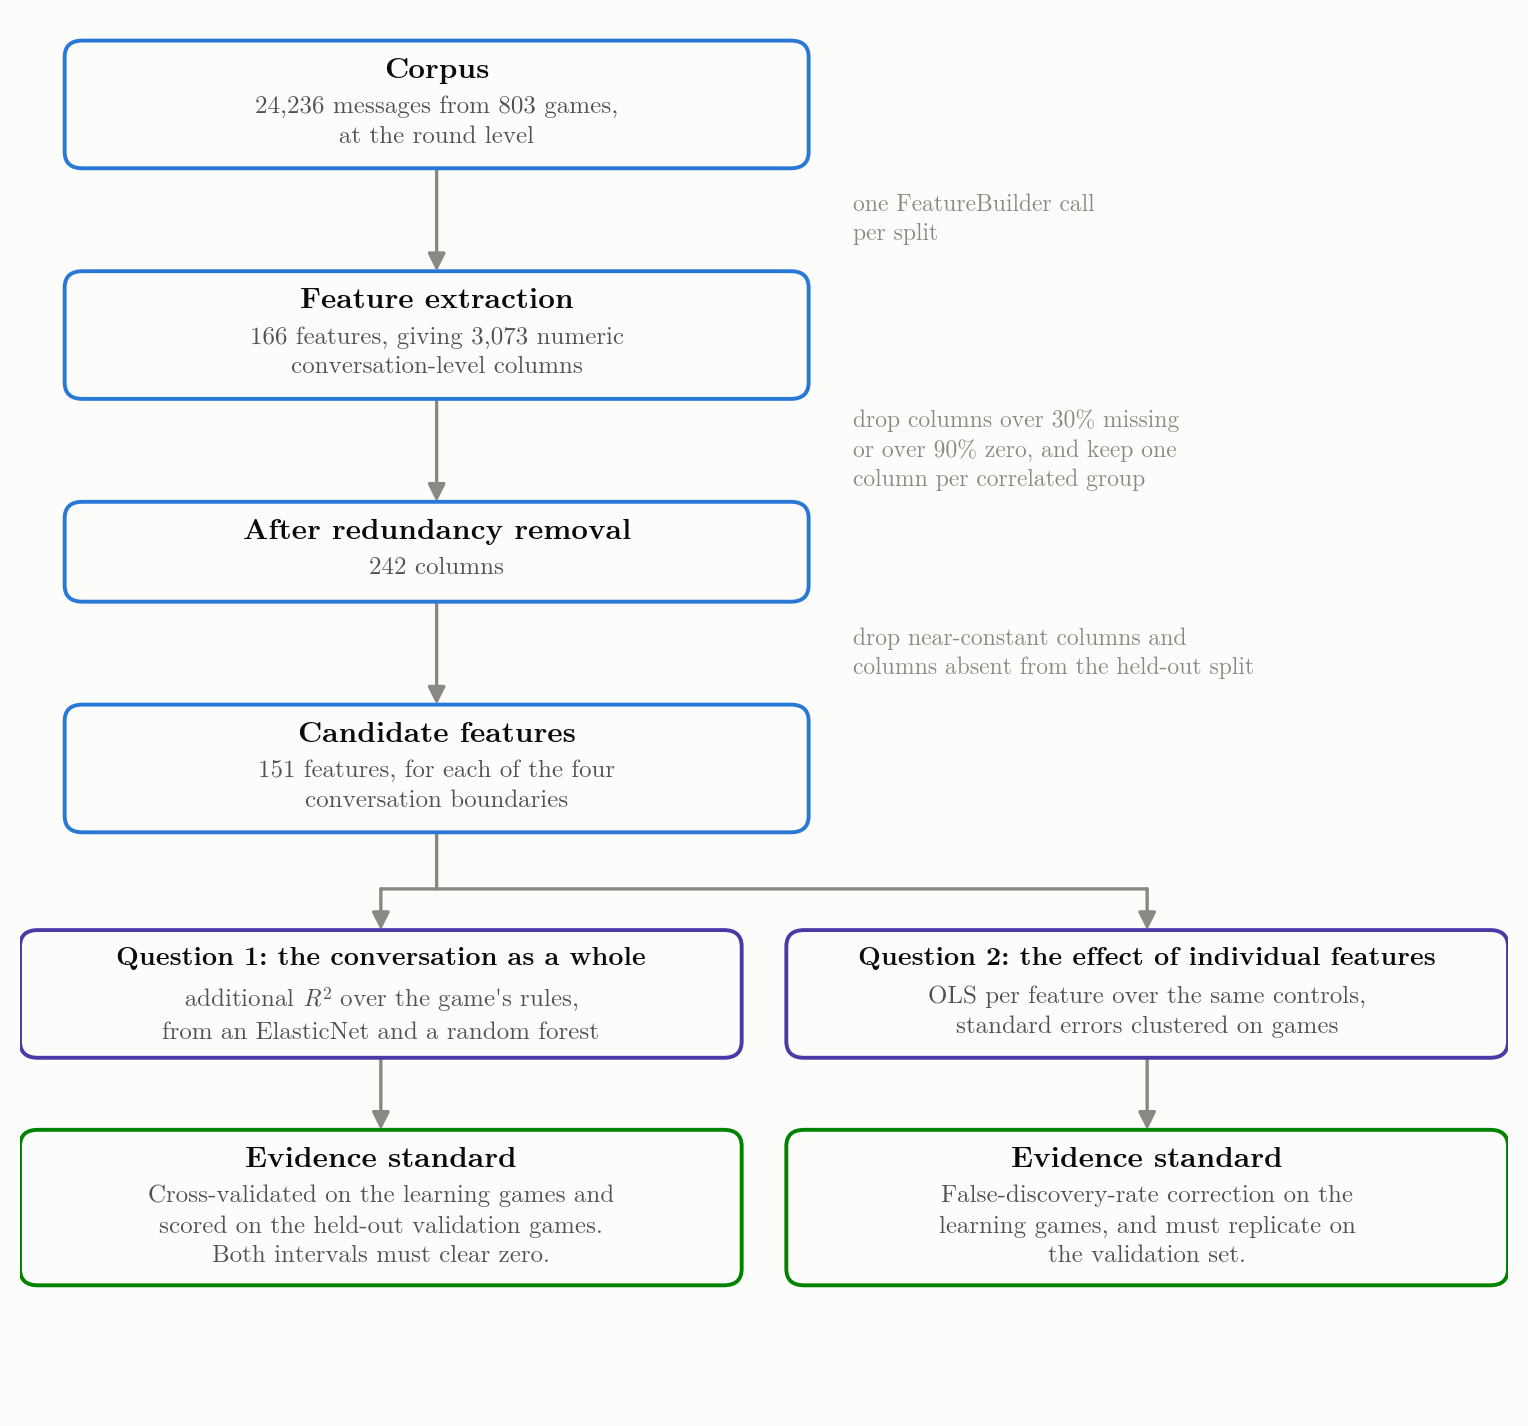
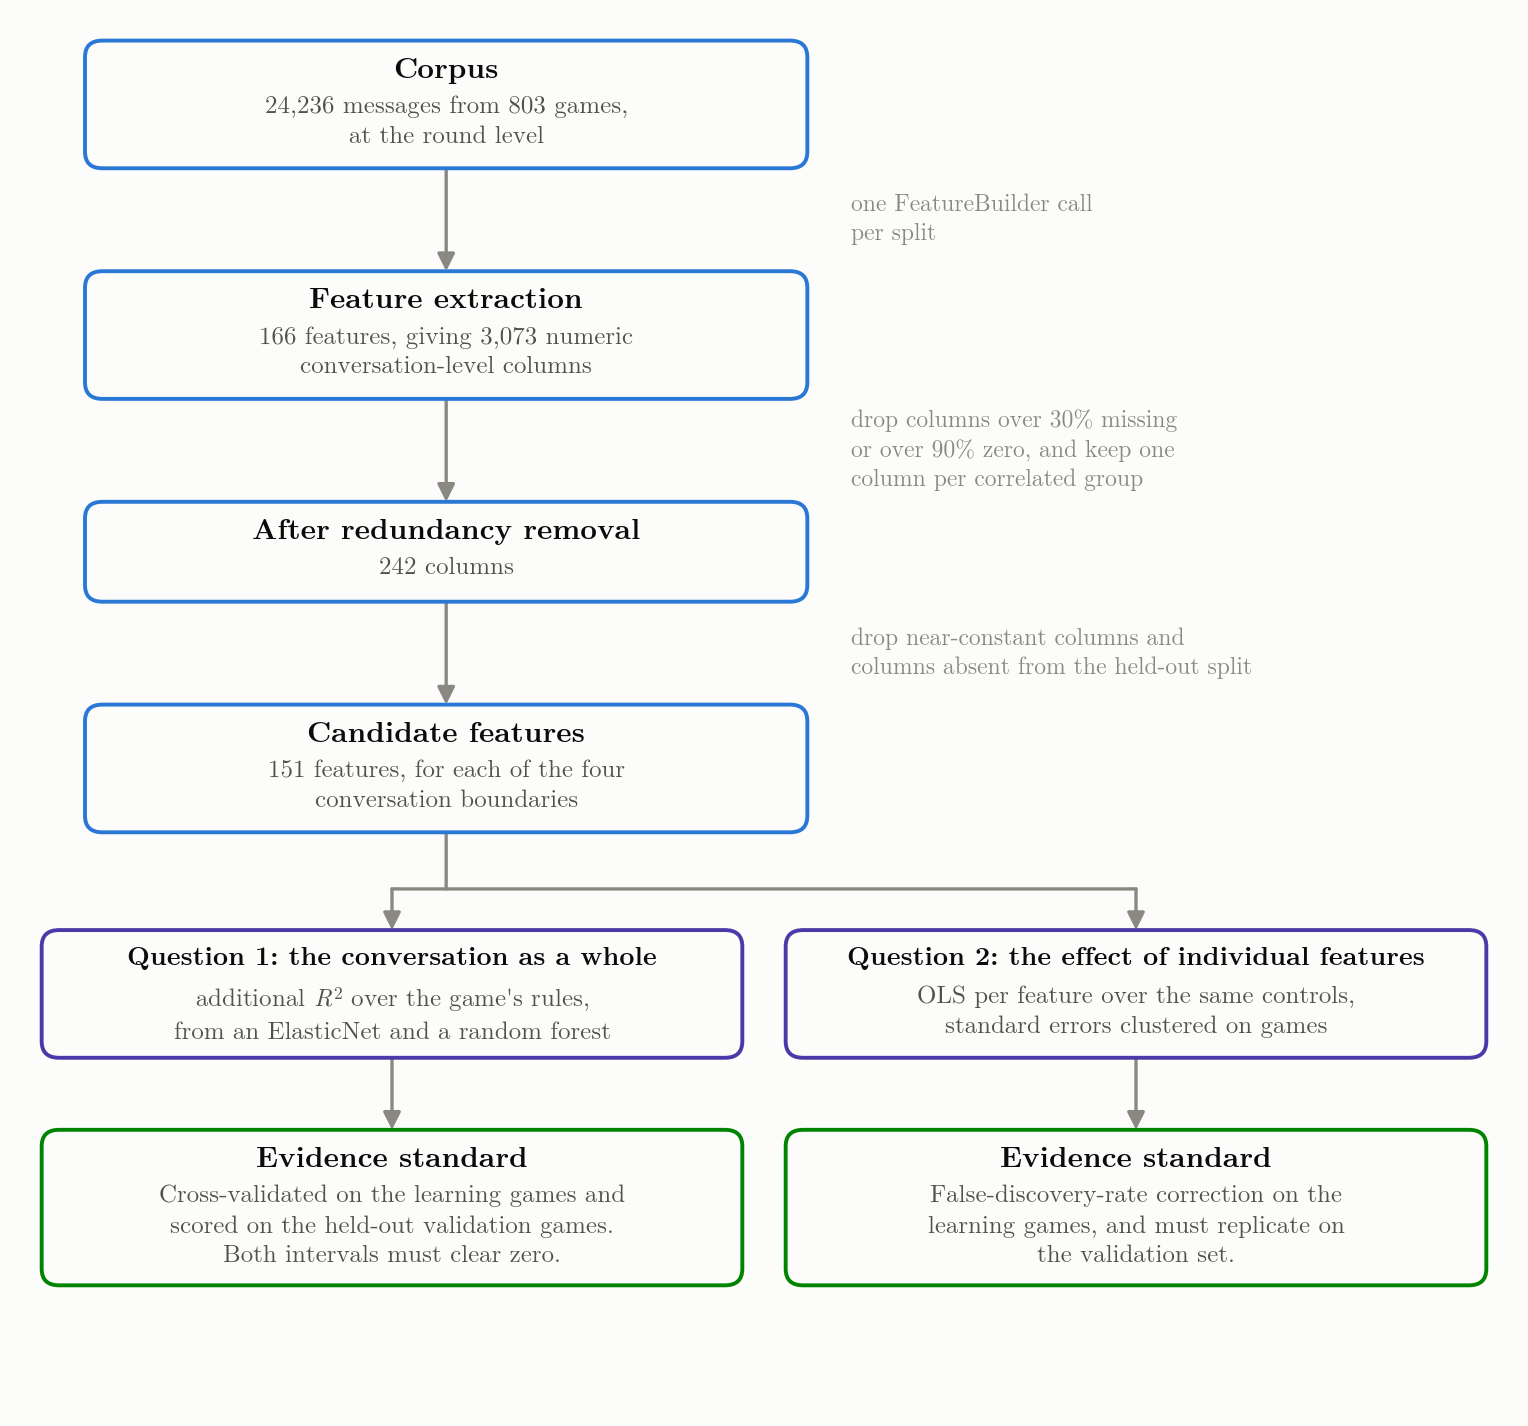
stop the pipeline figure's widest boxes being clipped at the axes edge
Patches are clipped to the axes by default, so the two question boxes and
the right-hand evidence box lost half their stroke where their edges sat
on x=0 and x=1.

diff --git a/scripts/19_pipeline_figure.py b/scripts/19_pipeline_figure.py
@@ -68,7 +68,8 @@ def box(ax, x, top, w, title, body, tone=style.BLUE, title_size=10.5):
     h = 2 * PAD + TITLE_H + 0.4 * BODY_H + lines * BODY_H
     ax.add_patch(FancyBboxPatch(
         (x, top - h), w, h, boxstyle="round,pad=0,rounding_size=0.012",
-        linewidth=1.4, edgecolor=tone, facecolor=style.SURFACE, zorder=3))
+        linewidth=1.4, edgecolor=tone, facecolor=style.SURFACE, zorder=3,
+        clip_on=False))
     ax.text(x + w / 2, top - PAD, title, ha="center", va="top",
             fontsize=title_size, color=style.INK, fontweight="bold", zorder=4)
     ax.text(x + w / 2, top - PAD - TITLE_H - 0.4 * BODY_H, body, ha="center",
@@ -91,7 +92,7 @@ def main():
     n = counts()
 
     fig, ax = plt.subplots(figsize=(FIG_W, FIG_H))
-    ax.set_xlim(0, 1)
+    ax.set_xlim(-0.015, 1.015)
     ax.set_ylim(Y_MIN, 1)
     ax.axis("off")
 
